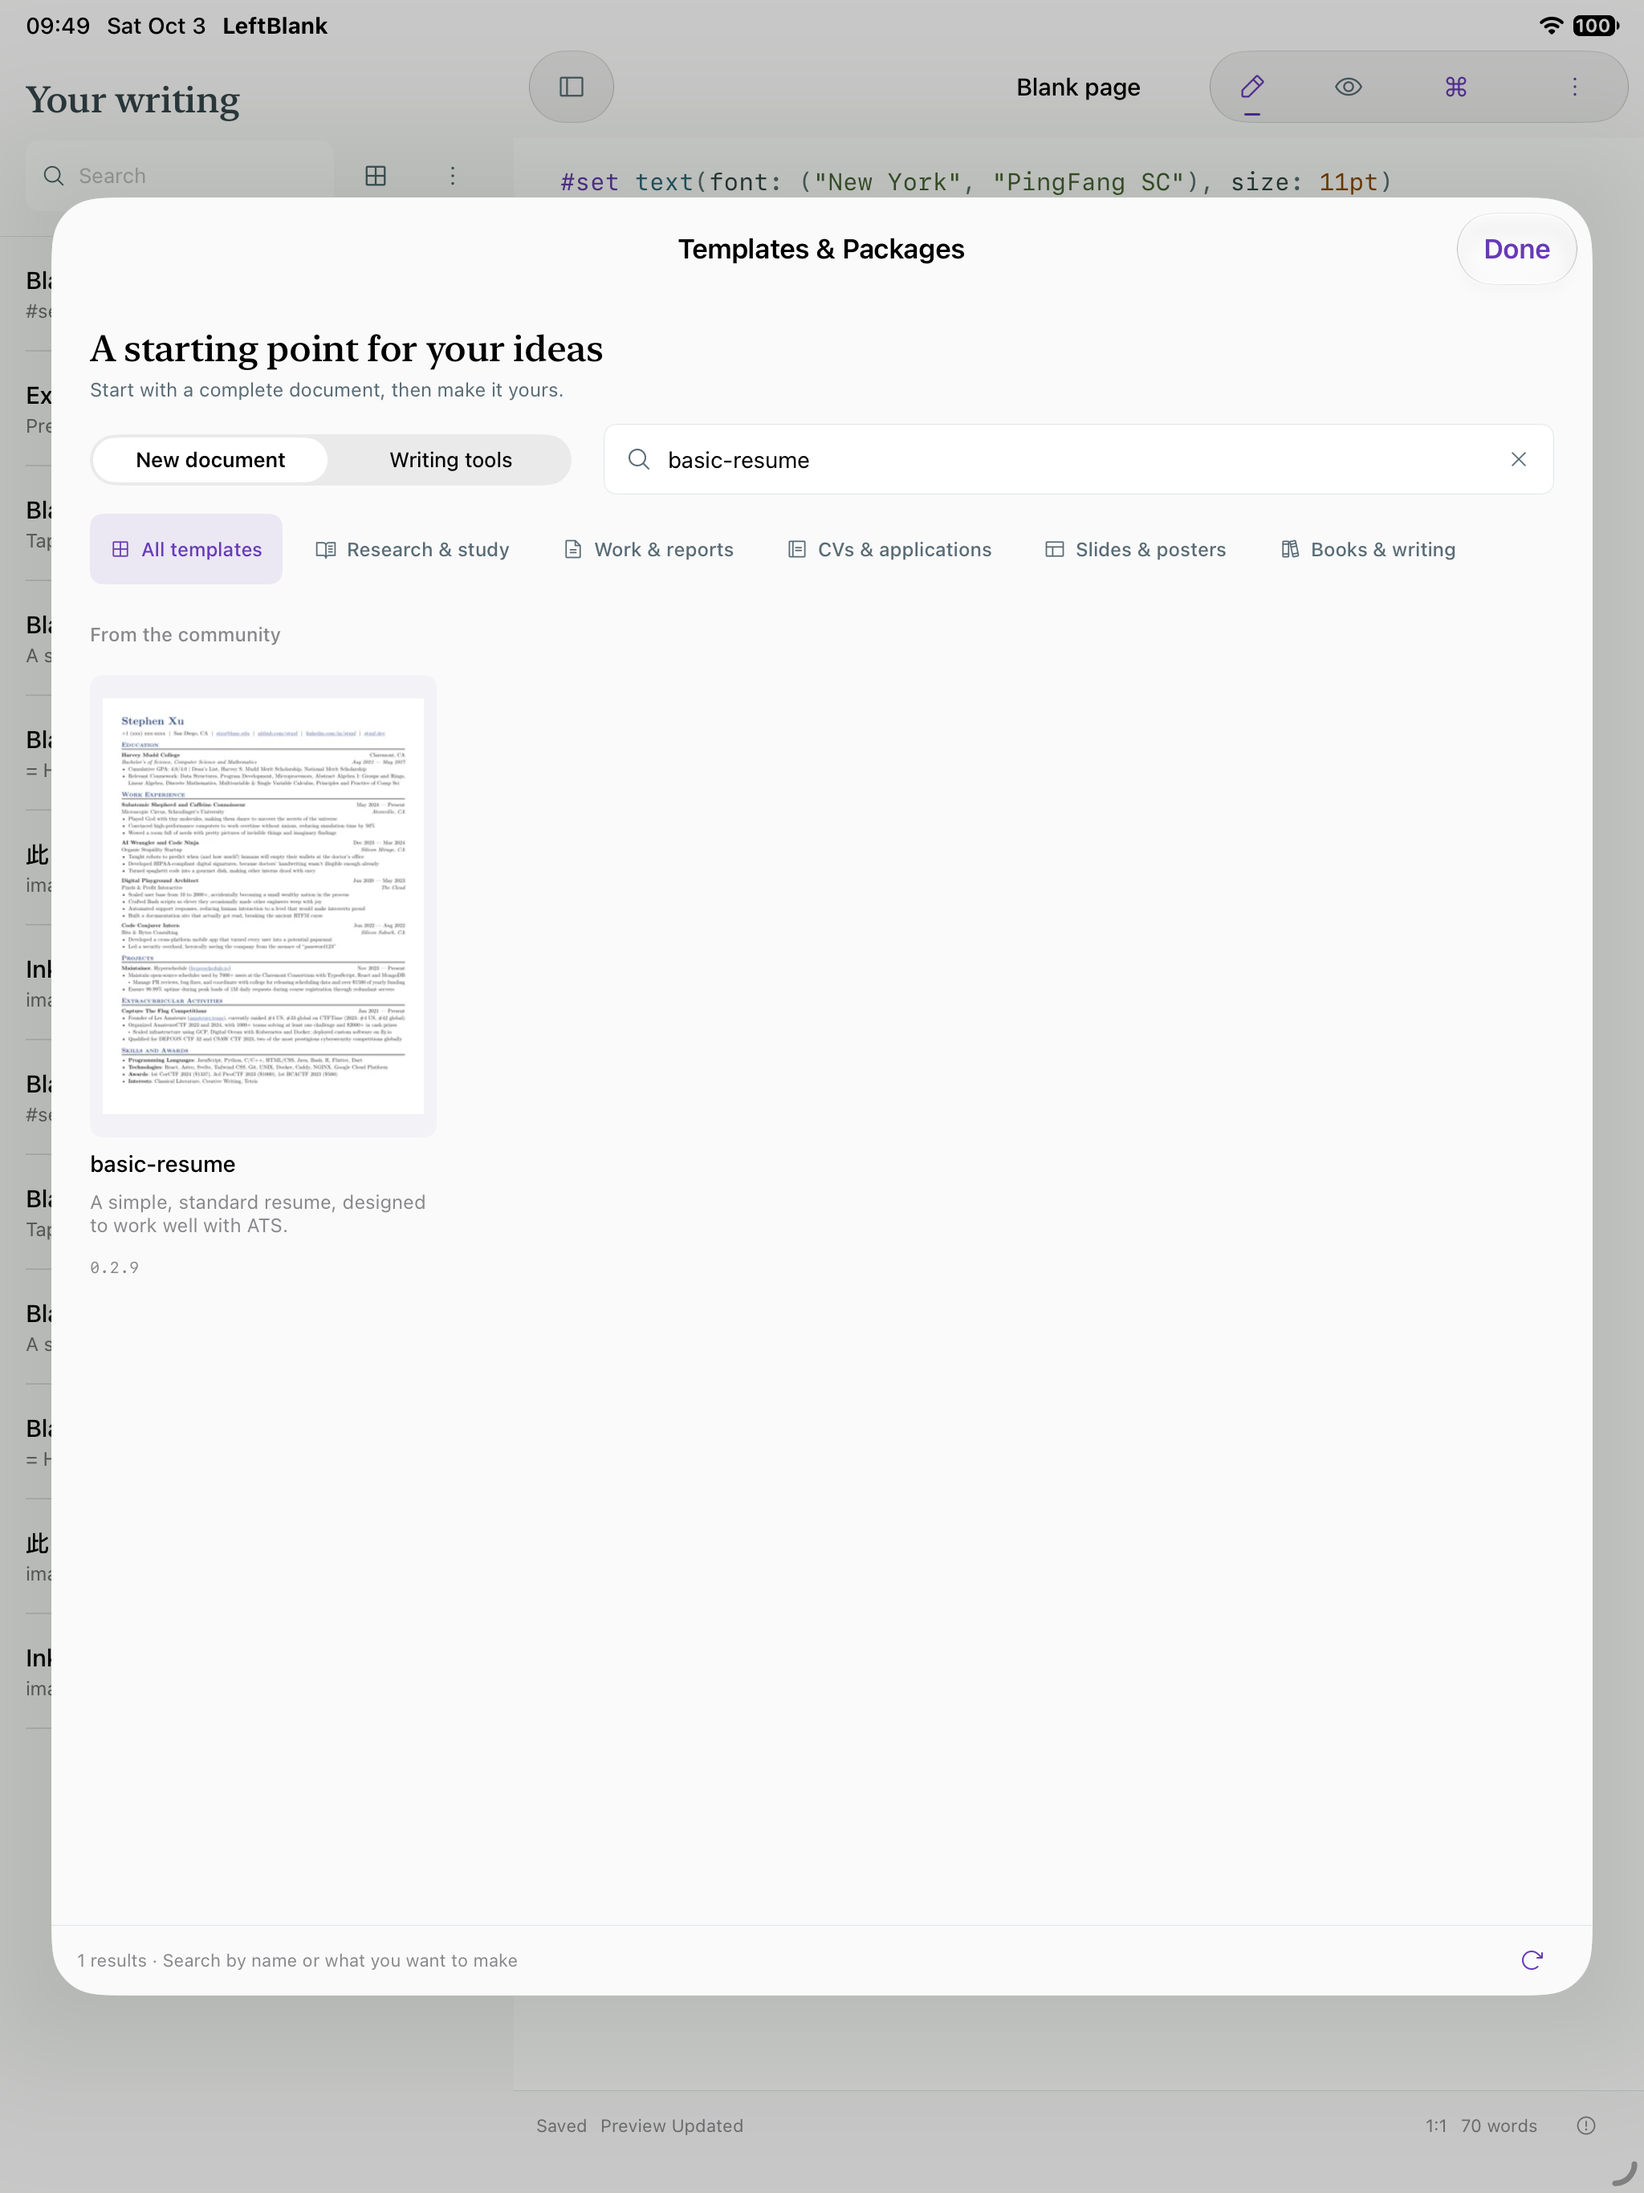
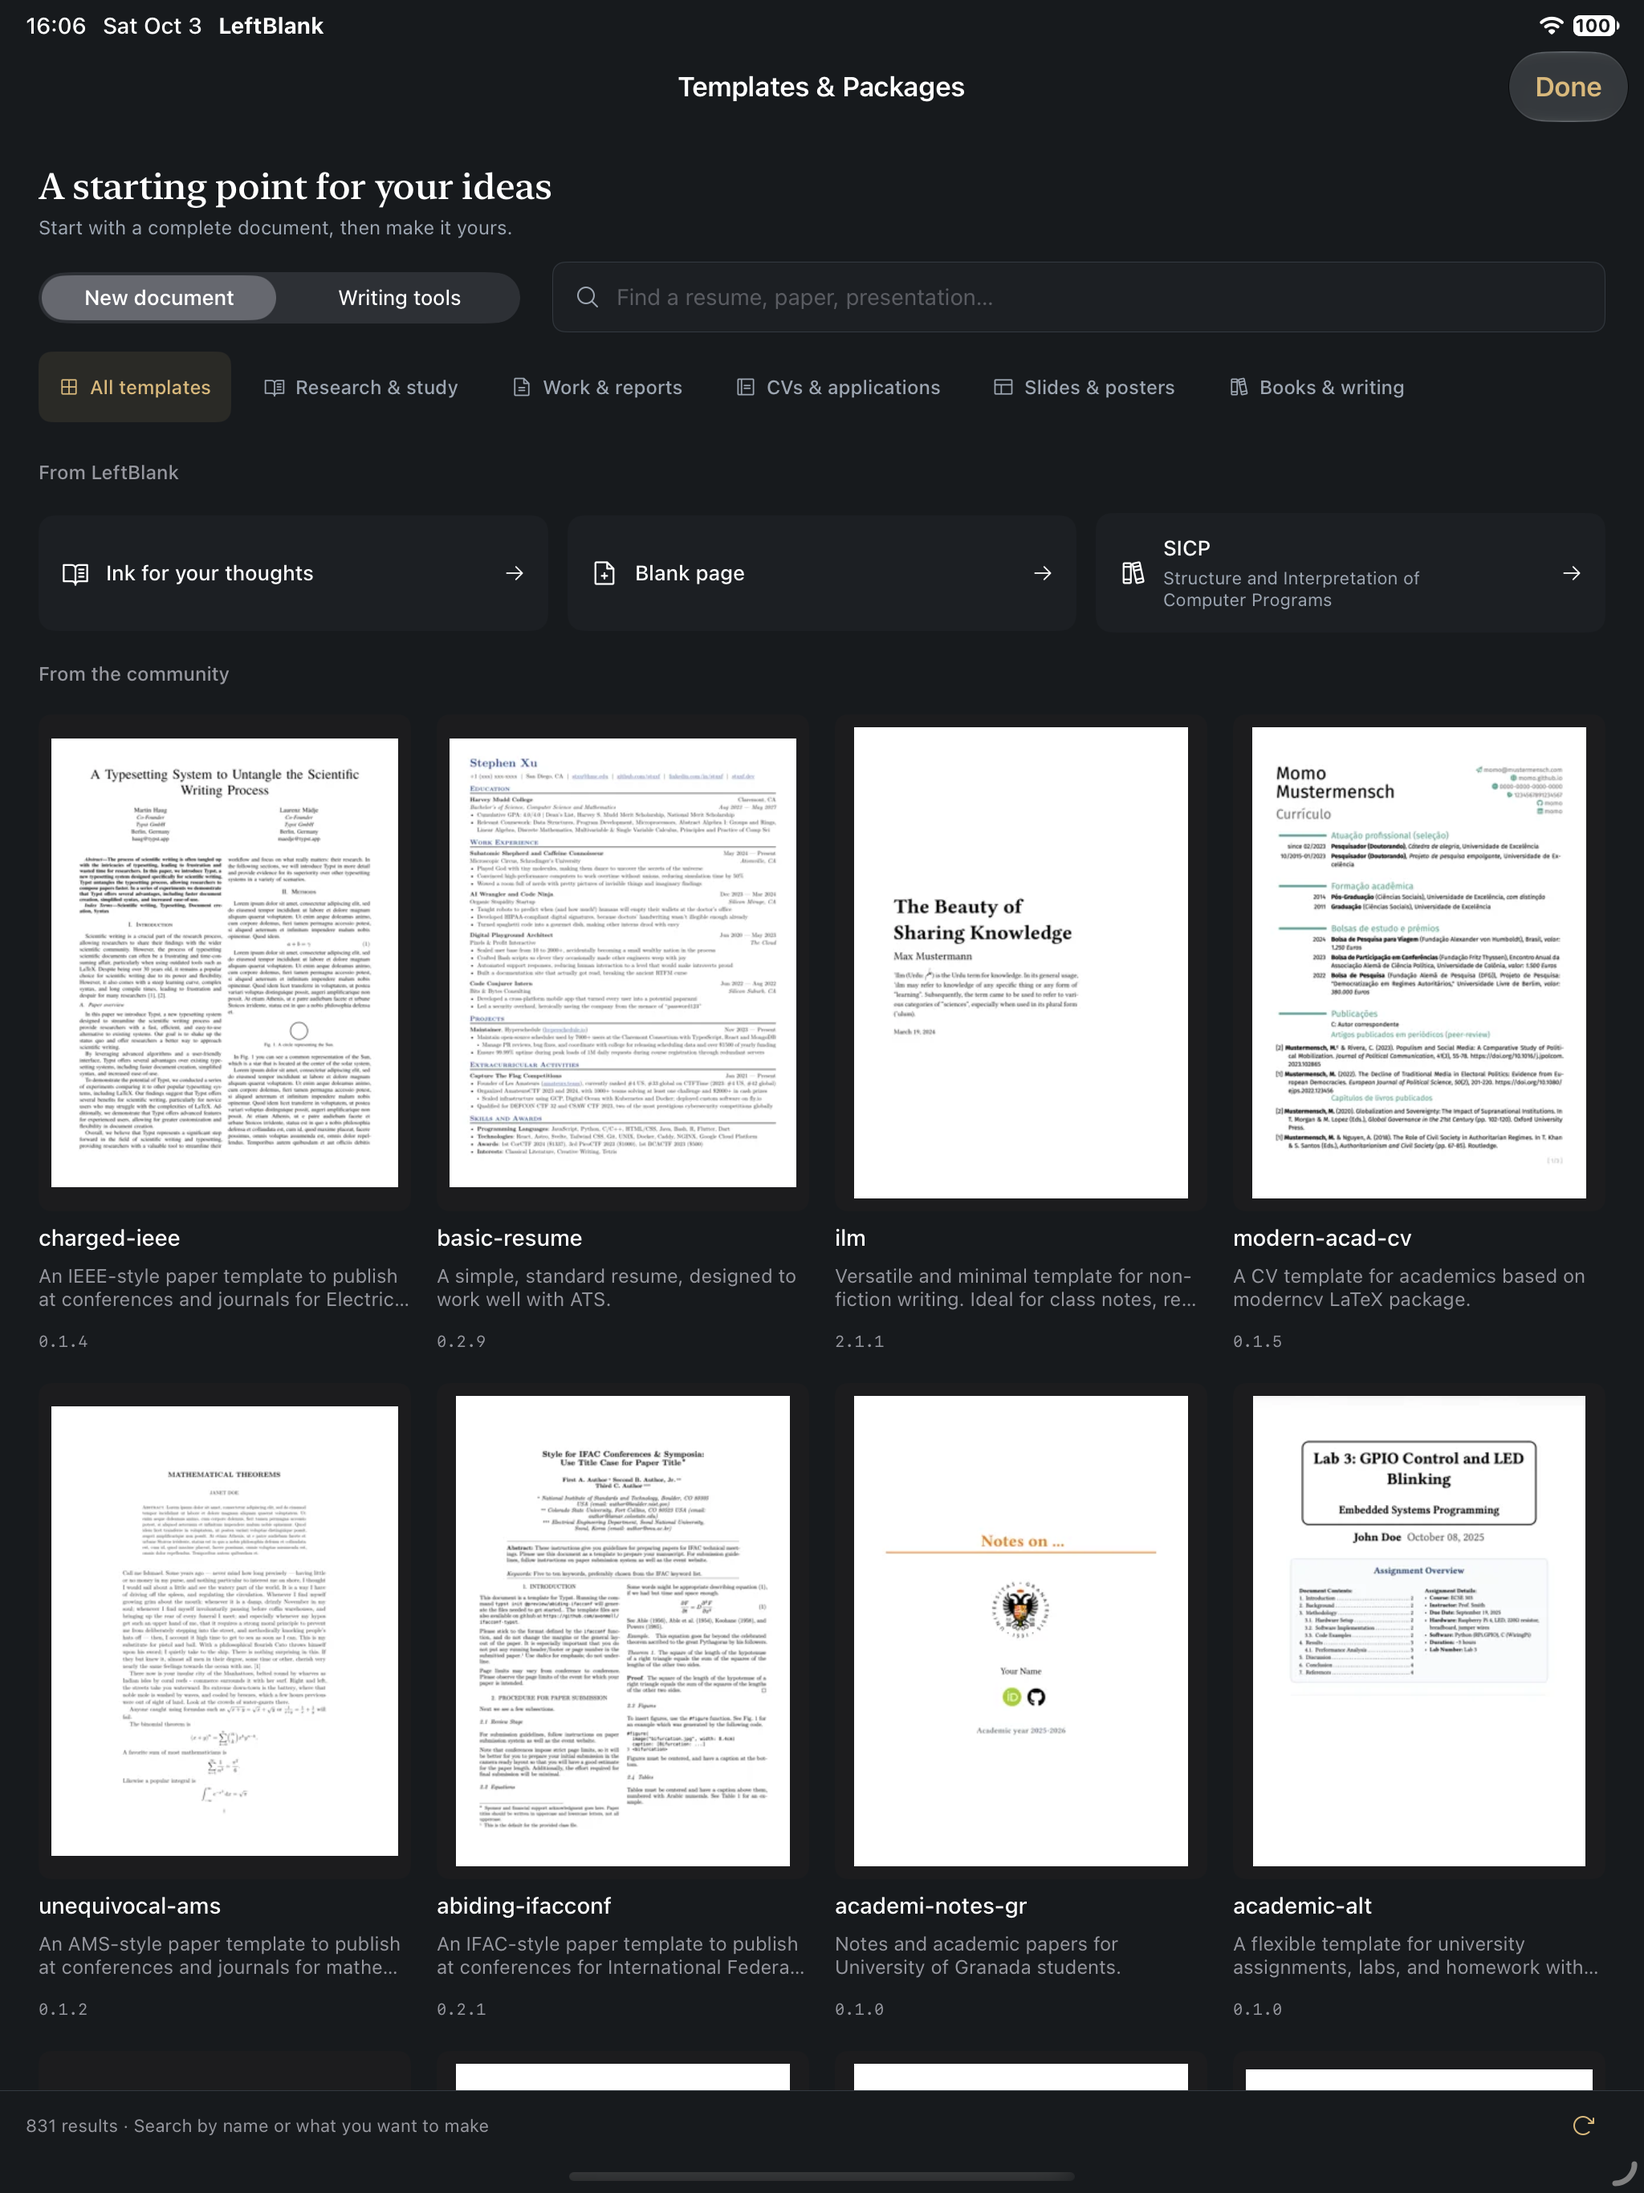
Refresh the actual dark iPad template storefront screenshot

diff --git a/iPad/Storefront/screenshots/README.md b/iPad/Storefront/screenshots/README.md
@@ -9,7 +9,7 @@ locale-specific order in `../manifest.json`.
 | `01-preview.png` | English | Light | Rendered welcome document |
 | `en-dark-writing.png` | English | Dark | Editor and live preview |
 | `02-writing.png` | English | Light | Editing a document |
-| `03-templates.png` | English | Light | Template browser in portrait |
+| `03-templates.png` | English | Dark | Template browser in portrait |
 | `zh-light-preview.png` | Simplified Chinese | Light | Rendered welcome document |
 | `zh-dark-preview.png` | Simplified Chinese | Dark | Rendered welcome document |
 | `subscription.png` | English | Light | Subscription purchase and restore |
@@ -17,6 +17,9 @@ locale-specific order in `../manifest.json`.
 Landscape captures were losslessly oriented into 2732 × 2048 pixels; portrait
 captures are 2048 × 2732. Only the orientation was normalized for Apple's 13-inch
 screenshot slot. The interface and document contents were not retouched.
+
+The dark template browser capture comes from the native full-screen presentation,
+including portrait/landscape rotation and preserved search/selection checks.
 
 The subscription review image uses the checked-in StoreKit test configuration.
 Its two-month trial and USD 2.99 monthly price describe the confirmed business
